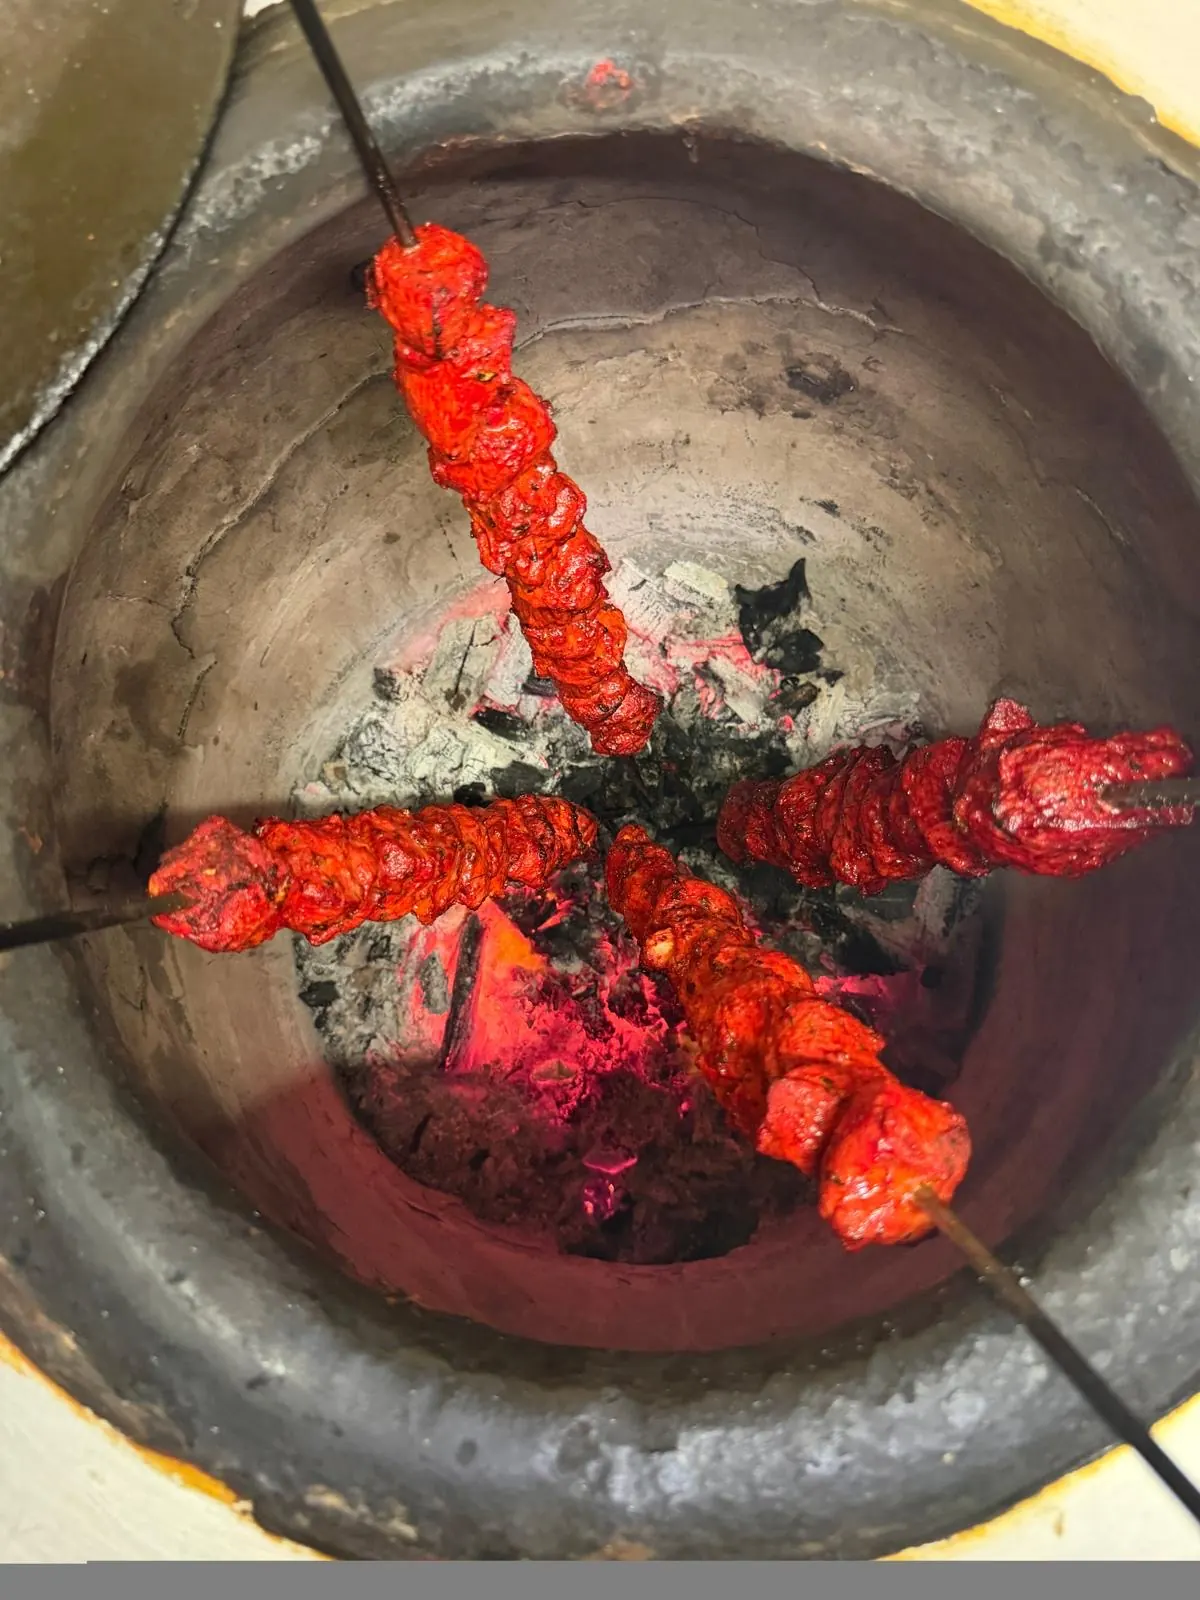
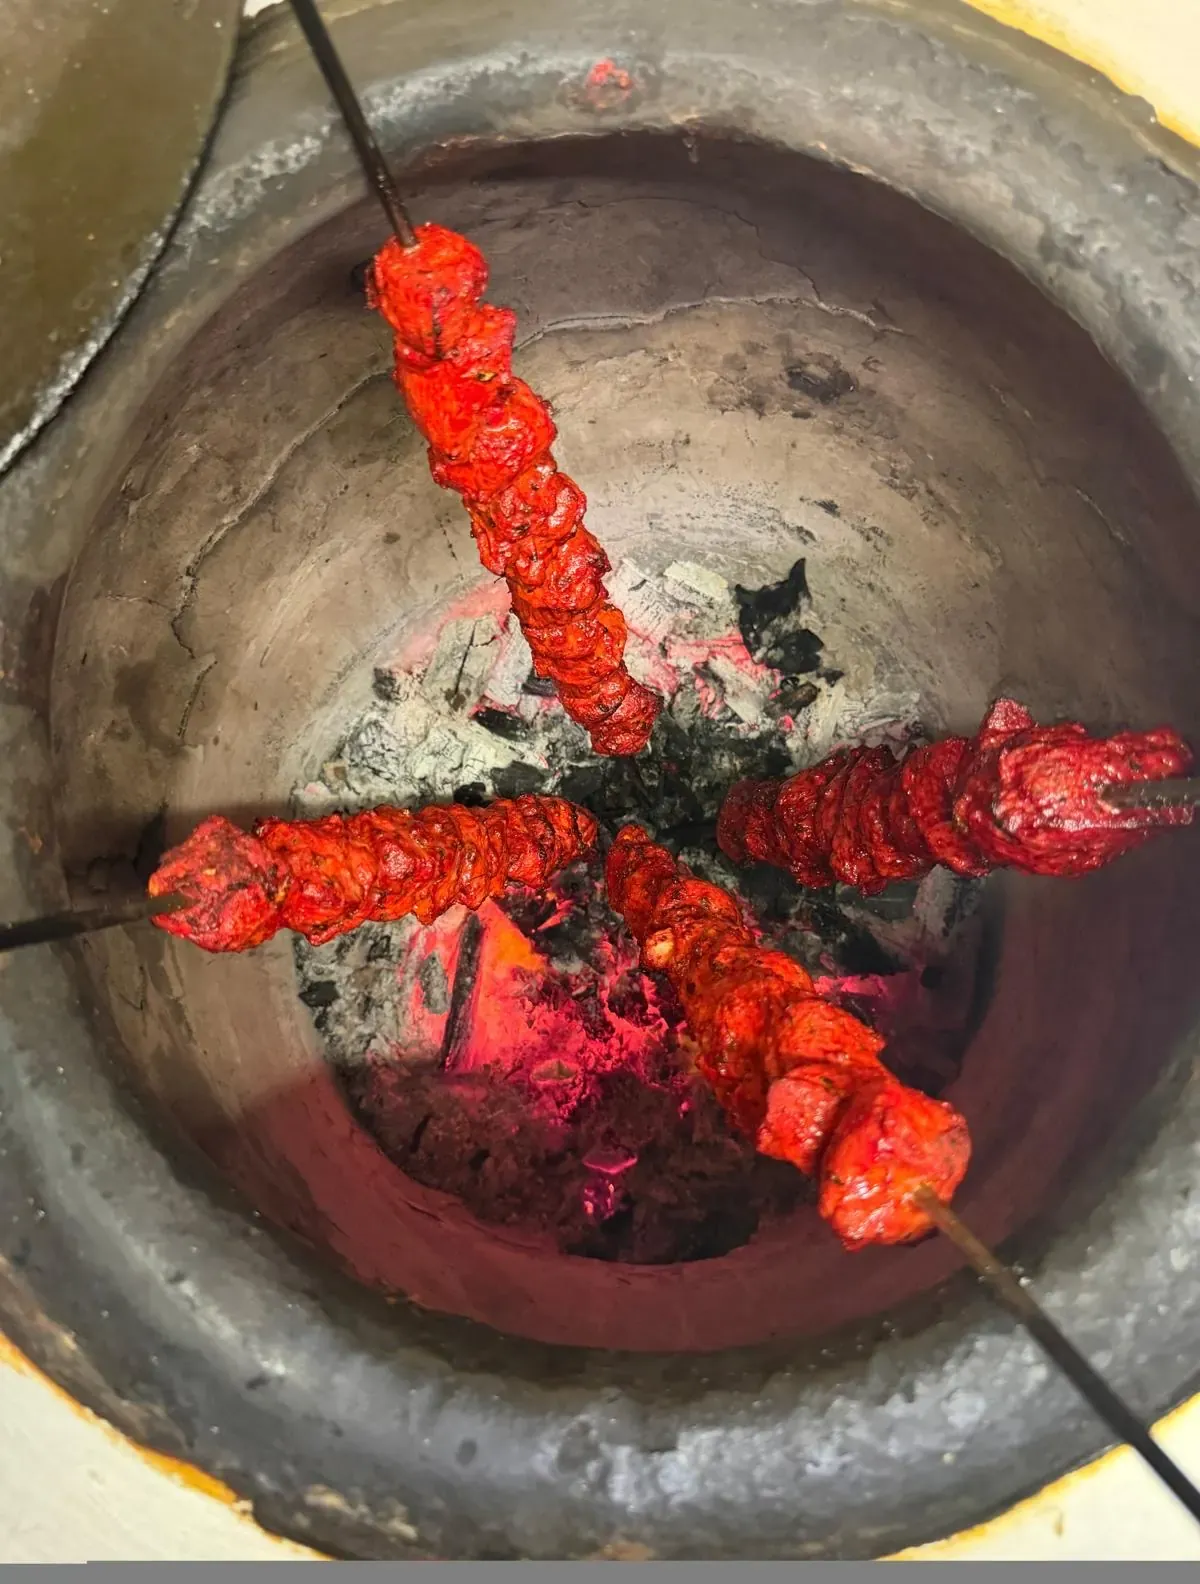
Crop gray bands from gallery photos

diff --git a/src/data/photos.ts b/src/data/photos.ts
@@ -3,7 +3,7 @@ export const photos = [
     src: '/images/brochettes-tandoor.webp',
     alt: 'Brochettes de viande grillant au-dessus des braises dans le tandoor',
     width: 1200,
-    height: 1600,
+    height: 1584,
     kind: 'food',
   },
   {
@@ -45,7 +45,7 @@ export const photos = [
     src: '/images/tableau-taj-mahal.webp',
     alt: 'Tableau représentant Ganesh dans la salle du restaurant',
     width: 1400,
-    height: 1050,
+    height: 1044,
     kind: 'room',
   },
   {
